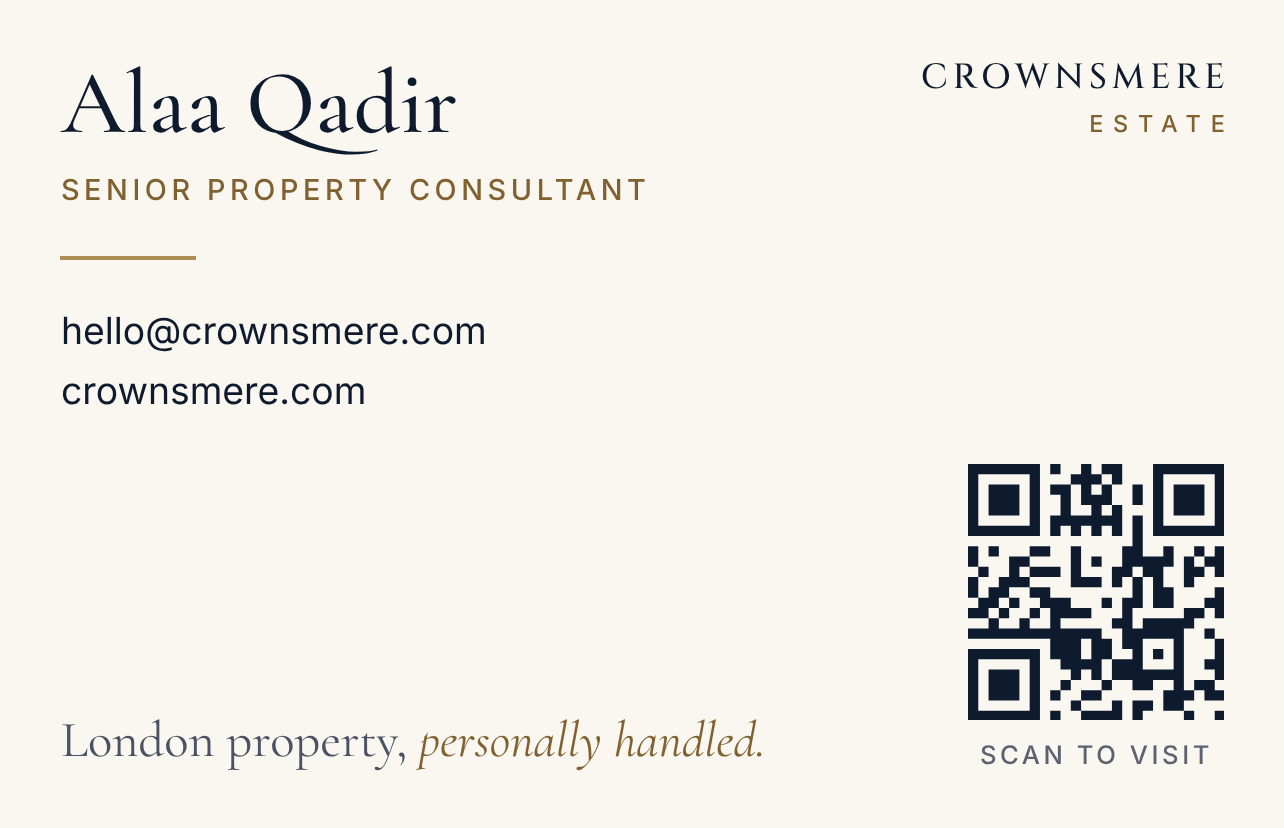
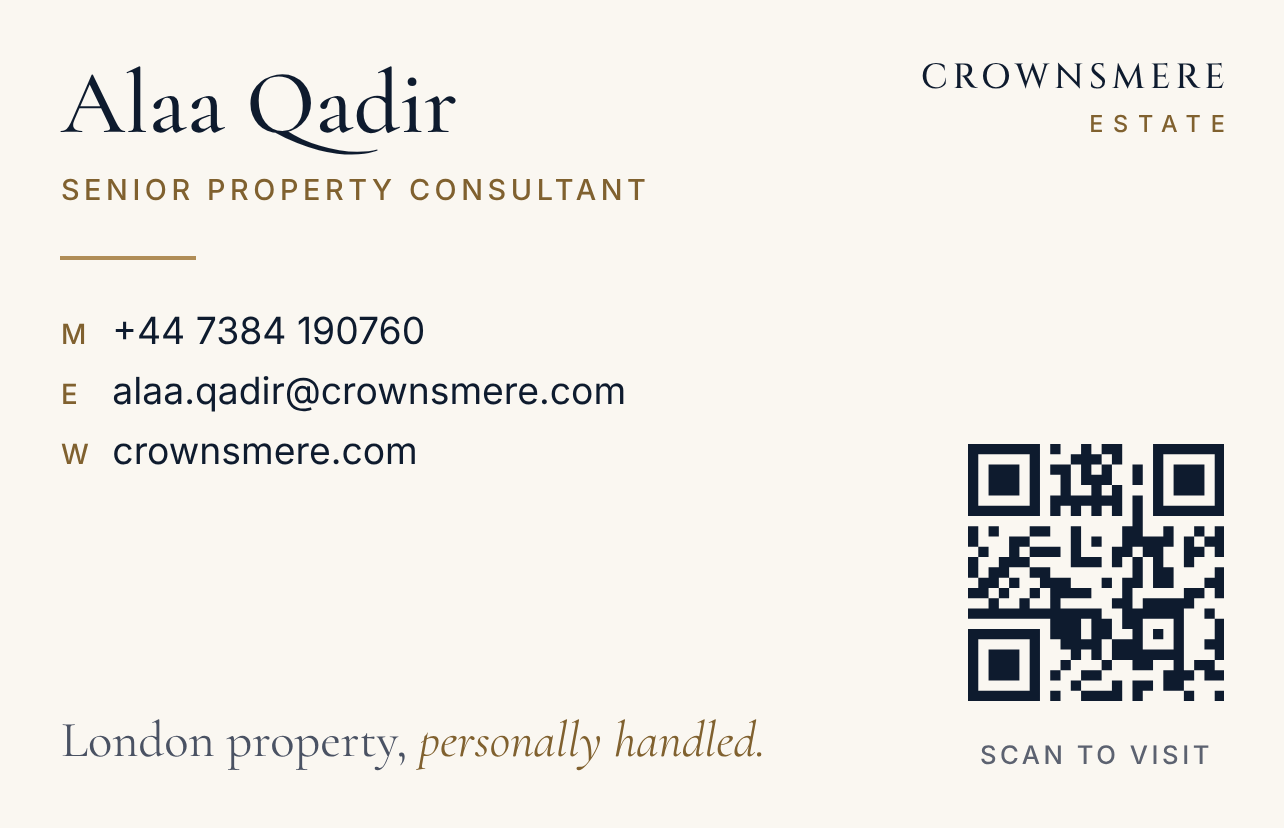
Put Alaa's direct email and mobile number on her card
- Card back: M +44 7384 190760, E alaa.qadir@crownsmere.com, W
  crownsmere.com, with small gold labels
- The contact file and email signature carry the same details (mobile
  as a tel: link); the website keeps hello@crownsmere.com
- QR code caption moved down so the code keeps the full four-module
  quiet zone; the code still opens https://crownsmere.com/ and reads
  correctly from the print PDF and simulated phone photos

Claude-Session: https://claude.ai/code/session_019s7tRNUbQnFUHC49w7chn2

Changed region(s): [[0.7477, 0.5133, 0.9657, 0.8756], [0.0312, 0.4529, 0.4984, 0.5737], [0.0312, 0.3623, 0.3738, 0.4227]]

diff --git a/brand/email-signature.html b/brand/email-signature.html
@@ -26,7 +26,8 @@ ol { padding-left: 22px; } li { margin: 4px 0; }
 <p style="margin: 0; font-family: Georgia, 'Times New Roman', serif; font-size: 19px; line-height: 24px; color: #0e1b2e;">Alaa Qadir</p>
 <p style="margin: 2px 0 0; font-family: Arial, Helvetica, sans-serif; font-size: 10px; line-height: 14px; letter-spacing: 1.5px; color: #80612f;">SENIOR PROPERTY CONSULTANT</p>
 <p style="margin: 9px 0 0; font-family: Georgia, 'Times New Roman', serif; font-size: 13px; line-height: 19px; letter-spacing: 1.5px; color: #0e1b2e;">CROWNSMERE <span style="font-family: Arial, Helvetica, sans-serif; font-size: 9px; letter-spacing: 2.5px; color: #80612f;">ESTATE</span></p>
-<p style="margin: 0; font-family: Arial, Helvetica, sans-serif; font-size: 13px; line-height: 19px; color: #0e1b2e;"><a href="mailto:hello@crownsmere.com" style="color: #0e1b2e; text-decoration: none;">hello@crownsmere.com</a>&nbsp;&nbsp;<span style="color: #b08d57;">|</span>&nbsp;&nbsp;<a href="https://crownsmere.com/" style="color: #0e1b2e; text-decoration: none;">crownsmere.com</a></p>
+<p style="margin: 0; font-family: Arial, Helvetica, sans-serif; font-size: 13px; line-height: 19px; color: #0e1b2e;"><a href="mailto:alaa.qadir@crownsmere.com" style="color: #0e1b2e; text-decoration: none;">alaa.qadir@crownsmere.com</a>&nbsp;&nbsp;<span style="color: #b08d57;">|</span>&nbsp;&nbsp;<a href="tel:+447384190760" style="color: #0e1b2e; text-decoration: none;">+44 7384 190760</a></p>
+<p style="margin: 0; font-family: Arial, Helvetica, sans-serif; font-size: 13px; line-height: 19px; color: #0e1b2e;"><a href="https://crownsmere.com/" style="color: #0e1b2e; text-decoration: none;">crownsmere.com</a></p>
 <p style="margin: 3px 0 0; font-family: Georgia, 'Times New Roman', serif; font-size: 14px; line-height: 19px; font-style: italic; color: #80612f;">London property, personally handled.</p>
 </td>
 </tr>
@@ -63,7 +64,9 @@ Settings, Apps, Mail, Signature.</p>
 <div class="box"><pre id="txt">Alaa Qadir
 Senior Property Consultant
 Crownsmere Estate
-hello@crownsmere.com | crownsmere.com
+alaa.qadir@crownsmere.com
++44 7384 190760
+crownsmere.com
 London property, personally handled.
 </pre></div>
 <button type="button" data-copy="txt">Copy plain text</button><span class="done" id="txt-done" hidden>Copied</span>

diff --git a/brand/share-card.html b/brand/share-card.html
@@ -27,6 +27,7 @@ body { -webkit-print-color-adjust: exact; print-color-adjust: exact; }
 .role { margin: 1.7mm 0 0; font: 500 5.4pt/1 "Inter", sans-serif; letter-spacing: 0.16em; color: #80612f; }
 .rule { width: 9mm; height: 0.25mm; margin: 3.4mm 0 3mm; background: #b08d57; }
 .lines { margin: 0; font: 400 7pt/1.6 "Inter", sans-serif; color: #0e1b2e; }
+.lines b { display: inline-block; width: 3.4mm; font: 500 5.2pt/1 "Inter", sans-serif; color: #80612f; }
 .tag { margin: 0; font: 400 9.5pt/1.15 "Cormorant Garamond", serif; color: #4a5263; }
 .tag em { color: #80612f; }
 .side { display: flex; flex-direction: column; align-items: flex-end; justify-content: space-between; }
@@ -35,7 +36,8 @@ body { -webkit-print-color-adjust: exact; print-color-adjust: exact; }
 .brand small { display: block; margin: 1.1mm -0.92pt 0 0; font: 500 4.4pt/1 "Inter", sans-serif; letter-spacing: 0.42em; color: #80612f; }
 .qr { display: flex; flex-direction: column; align-items: center; }
 .qr svg { display: block; width: 17mm; height: 17mm; }
-.qr p { margin: 1.6mm 0 0; font: 500 4.8pt/1 "Inter", sans-serif; letter-spacing: 0.14em; color: #5c6270; }
+/* 17 mm across 25 modules: the 2.8 mm gap keeps the four-module quiet zone the QR standard asks for. */
+.qr p { margin: 2.8mm 0 0; font: 500 4.8pt/1 "Inter", sans-serif; letter-spacing: 0.14em; color: #5c6270; }
 
 body { width: 1600px; height: 640px; display: flex; align-items: center; justify-content: center; gap: 40px;
        background: radial-gradient(120% 140% at 50% 0%, #f2ebdf 0%, #e4d9c5 100%); }
@@ -55,7 +57,7 @@ body { width: 1600px; height: 640px; display: flex; align-items: center; justify
       <p class="name">Alaa Qadir</p>
       <p class="role">SENIOR PROPERTY CONSULTANT</p>
       <div class="rule"></div>
-      <p class="lines">hello@crownsmere.com<br>crownsmere.com</p>
+      <p class="lines"><b>M</b>+44 7384 190760<br><b>E</b>alaa.qadir@crownsmere.com<br><b>W</b>crownsmere.com</p>
     </div>
     <p class="tag">London property, <em>personally handled.</em></p>
   </div>

diff --git a/brand/card.html b/brand/card.html
@@ -27,6 +27,7 @@ body { -webkit-print-color-adjust: exact; print-color-adjust: exact; }
 .role { margin: 1.7mm 0 0; font: 500 5.4pt/1 "Inter", sans-serif; letter-spacing: 0.16em; color: #80612f; }
 .rule { width: 9mm; height: 0.25mm; margin: 3.4mm 0 3mm; background: #b08d57; }
 .lines { margin: 0; font: 400 7pt/1.6 "Inter", sans-serif; color: #0e1b2e; }
+.lines b { display: inline-block; width: 3.4mm; font: 500 5.2pt/1 "Inter", sans-serif; color: #80612f; }
 .tag { margin: 0; font: 400 9.5pt/1.15 "Cormorant Garamond", serif; color: #4a5263; }
 .tag em { color: #80612f; }
 .side { display: flex; flex-direction: column; align-items: flex-end; justify-content: space-between; }
@@ -35,7 +36,8 @@ body { -webkit-print-color-adjust: exact; print-color-adjust: exact; }
 .brand small { display: block; margin: 1.1mm -0.92pt 0 0; font: 500 4.4pt/1 "Inter", sans-serif; letter-spacing: 0.42em; color: #80612f; }
 .qr { display: flex; flex-direction: column; align-items: center; }
 .qr svg { display: block; width: 17mm; height: 17mm; }
-.qr p { margin: 1.6mm 0 0; font: 500 4.8pt/1 "Inter", sans-serif; letter-spacing: 0.14em; color: #5c6270; }
+/* 17 mm across 25 modules: the 2.8 mm gap keeps the four-module quiet zone the QR standard asks for. */
+.qr p { margin: 2.8mm 0 0; font: 500 4.8pt/1 "Inter", sans-serif; letter-spacing: 0.14em; color: #5c6270; }
 
 @page { size: 91mm 61mm; margin: 0; }
 .card { break-after: page; }
@@ -54,7 +56,7 @@ body { -webkit-print-color-adjust: exact; print-color-adjust: exact; }
       <p class="name">Alaa Qadir</p>
       <p class="role">SENIOR PROPERTY CONSULTANT</p>
       <div class="rule"></div>
-      <p class="lines">hello@crownsmere.com<br>crownsmere.com</p>
+      <p class="lines"><b>M</b>+44 7384 190760<br><b>E</b>alaa.qadir@crownsmere.com<br><b>W</b>crownsmere.com</p>
     </div>
     <p class="tag">London property, <em>personally handled.</em></p>
   </div>

diff --git a/brand/email-signature-snippet.html b/brand/email-signature-snippet.html
@@ -5,7 +5,8 @@
 <p style="margin: 0; font-family: Georgia, 'Times New Roman', serif; font-size: 19px; line-height: 24px; color: #0e1b2e;">Alaa Qadir</p>
 <p style="margin: 2px 0 0; font-family: Arial, Helvetica, sans-serif; font-size: 10px; line-height: 14px; letter-spacing: 1.5px; color: #80612f;">SENIOR PROPERTY CONSULTANT</p>
 <p style="margin: 9px 0 0; font-family: Georgia, 'Times New Roman', serif; font-size: 13px; line-height: 19px; letter-spacing: 1.5px; color: #0e1b2e;">CROWNSMERE <span style="font-family: Arial, Helvetica, sans-serif; font-size: 9px; letter-spacing: 2.5px; color: #80612f;">ESTATE</span></p>
-<p style="margin: 0; font-family: Arial, Helvetica, sans-serif; font-size: 13px; line-height: 19px; color: #0e1b2e;"><a href="mailto:hello@crownsmere.com" style="color: #0e1b2e; text-decoration: none;">hello@crownsmere.com</a>&nbsp;&nbsp;<span style="color: #b08d57;">|</span>&nbsp;&nbsp;<a href="https://crownsmere.com/" style="color: #0e1b2e; text-decoration: none;">crownsmere.com</a></p>
+<p style="margin: 0; font-family: Arial, Helvetica, sans-serif; font-size: 13px; line-height: 19px; color: #0e1b2e;"><a href="mailto:alaa.qadir@crownsmere.com" style="color: #0e1b2e; text-decoration: none;">alaa.qadir@crownsmere.com</a>&nbsp;&nbsp;<span style="color: #b08d57;">|</span>&nbsp;&nbsp;<a href="tel:+447384190760" style="color: #0e1b2e; text-decoration: none;">+44 7384 190760</a></p>
+<p style="margin: 0; font-family: Arial, Helvetica, sans-serif; font-size: 13px; line-height: 19px; color: #0e1b2e;"><a href="https://crownsmere.com/" style="color: #0e1b2e; text-decoration: none;">crownsmere.com</a></p>
 <p style="margin: 3px 0 0; font-family: Georgia, 'Times New Roman', serif; font-size: 14px; line-height: 19px; font-style: italic; color: #80612f;">London property, personally handled.</p>
 </td>
 </tr>

diff --git a/tools/brand.py b/tools/brand.py
@@ -9,8 +9,8 @@ PNG images.
     python3 tools/brand.py
     PLAYWRIGHT_BROWSERS_PATH=/opt/pw-browsers node tools/brand-render.cjs   # any Playwright Chromium
 
-Only facts the website already states go on the cards. Add a phone or WhatsApp number to PERSON
-when there is one; the cards, signature and contact file pick it up.
+Alaa's own email and mobile number (PERSON) go on the card, the signature and the contact file; the
+rest is only what the website already states. Change a detail in PERSON and run both steps again.
 """
 import base64, html, io, os
 
@@ -23,8 +23,9 @@ OUT = os.path.join(ROOT, "brand")
 SITE = "https://crownsmere.com/"
 SITE_SHORT = "crownsmere.com"
 BRAND = "Crownsmere Estate"
-EMAIL = "hello@crownsmere.com"
-PERSON = {"first": "Alaa", "last": "Qadir", "title": "Senior Property Consultant", "phone": None}
+# Alaa's direct details, from the owner (October 2026). The website itself keeps hello@crownsmere.com.
+PERSON = {"first": "Alaa", "last": "Qadir", "title": "Senior Property Consultant",
+          "email": "alaa.qadir@crownsmere.com", "phone": "+44 7384 190760"}
 TAGLINE = ("London property,", "personally handled.")      # the home page's heading
 LINE = "Private property search · Prime London"            # the sharing image's strap line
 # The signature's logo is fetched from the live site when an email is opened, so this file must stay online.
@@ -94,6 +95,7 @@ body {{ -webkit-print-color-adjust: exact; print-color-adjust: exact; }}
 .role {{ margin: 1.7mm 0 0; font: 500 5.4pt/1 "Inter", sans-serif; letter-spacing: 0.16em; color: {GOLD_INK}; }}
 .rule {{ width: 9mm; height: 0.25mm; margin: 3.4mm 0 3mm; background: {GOLD}; }}
 .lines {{ margin: 0; font: 400 7pt/1.6 "Inter", sans-serif; color: {NAVY}; }}
+.lines b {{ display: inline-block; width: 3.4mm; font: 500 5.2pt/1 "Inter", sans-serif; color: {GOLD_INK}; }}
 .tag {{ margin: 0; font: 400 9.5pt/1.15 "Cormorant Garamond", serif; color: {INK2}; }}
 .tag em {{ color: {GOLD_INK}; }}
 .side {{ display: flex; flex-direction: column; align-items: flex-end; justify-content: space-between; }}
@@ -102,7 +104,8 @@ body {{ -webkit-print-color-adjust: exact; print-color-adjust: exact; }}
 .brand small {{ display: block; margin: 1.1mm -0.92pt 0 0; font: 500 4.4pt/1 "Inter", sans-serif; letter-spacing: 0.42em; color: {GOLD_INK}; }}
 .qr {{ display: flex; flex-direction: column; align-items: center; }}
 .qr svg {{ display: block; width: 17mm; height: 17mm; }}
-.qr p {{ margin: 1.6mm 0 0; font: 500 4.8pt/1 "Inter", sans-serif; letter-spacing: 0.14em; color: {INK3}; }}
+/* 17 mm across 25 modules: the 2.8 mm gap keeps the four-module quiet zone the QR standard asks for. */
+.qr p {{ margin: 2.8mm 0 0; font: 500 4.8pt/1 "Inter", sans-serif; letter-spacing: 0.14em; color: {INK3}; }}
 """
 
 
@@ -115,7 +118,9 @@ def front():
 
 
 def back():
-    lines = [e(EMAIL), SITE_SHORT] + ([e(PERSON["phone"])] if PERSON["phone"] else [])
+    # M(obile), E(mail), W(ebsite): the usual small labels on a UK card.
+    rows = ([("M", PERSON["phone"])] if PERSON["phone"] else []) + [("E", PERSON["email"]), ("W", SITE_SHORT)]
+    lines = [f"<b>{k}</b>{e(v)}" for k, v in rows]
     return f'''<div class="card back"><div class="safe">
   <div class="who">
     <div>
@@ -177,7 +182,8 @@ def signature_html():
     serif = "Georgia, 'Times New Roman', serif"
     p = f"margin: 0; font-family: {sans}; font-size: 13px; line-height: 19px; color: {NAVY};"
     a = f"color: {NAVY}; text-decoration: none;"
-    phone = (f'<br><a href="tel:{e(PERSON["phone"].replace(" ", ""))}" style="{a}">{e(PERSON["phone"])}</a>'
+    bar = f'&nbsp;&nbsp;<span style="color: {GOLD};">|</span>&nbsp;&nbsp;'
+    phone = (f'{bar}<a href="tel:{e(PERSON["phone"].replace(" ", ""))}" style="{a}">{e(PERSON["phone"])}</a>'
              if PERSON["phone"] else "")
     return f'''<table role="presentation" cellpadding="0" cellspacing="0" border="0" style="border-collapse: collapse;">
 <tr>
@@ -186,7 +192,8 @@ def signature_html():
 <p style="margin: 0; font-family: {serif}; font-size: 19px; line-height: 24px; color: {NAVY};">{e(name)}</p>
 <p style="margin: 2px 0 0; font-family: {sans}; font-size: 10px; line-height: 14px; letter-spacing: 1.5px; color: {GOLD_INK};">{e(PERSON["title"]).upper()}</p>
 <p style="margin: 9px 0 0; font-family: {serif}; font-size: 13px; line-height: 19px; letter-spacing: 1.5px; color: {NAVY};">CROWNSMERE <span style="font-family: {sans}; font-size: 9px; letter-spacing: 2.5px; color: {GOLD_INK};">ESTATE</span></p>
-<p style="{p}"><a href="mailto:{EMAIL}" style="{a}">{EMAIL}</a>&nbsp;&nbsp;<span style="color: {GOLD};">|</span>&nbsp;&nbsp;<a href="{SITE}" style="{a}">{SITE_SHORT}</a>{phone}</p>
+<p style="{p}"><a href="mailto:{PERSON["email"]}" style="{a}">{PERSON["email"]}</a>{phone}</p>
+<p style="{p}"><a href="{SITE}" style="{a}">{SITE_SHORT}</a></p>
 <p style="margin: 3px 0 0; font-family: {serif}; font-size: 14px; line-height: 19px; font-style: italic; color: {GOLD_INK};">{e(" ".join(TAGLINE))}</p>
 </td>
 </tr>
@@ -194,10 +201,10 @@ def signature_html():
 
 
 def signature_text():
-    rows = [name, PERSON["title"], BRAND, f"{EMAIL} | {SITE_SHORT}"]
+    rows = [name, PERSON["title"], BRAND, PERSON["email"]]
     if PERSON["phone"]:
         rows.append(PERSON["phone"])
-    rows.append(" ".join(TAGLINE))
+    rows += [SITE_SHORT, " ".join(TAGLINE)]
     return "\n".join(rows) + "\n"
 
 
@@ -300,9 +307,9 @@ def vcard():
     rows = ["BEGIN:VCARD", "VERSION:3.0",
             f'N:{esc(PERSON["last"])};{esc(PERSON["first"])};;;', f"FN:{esc(name)}",
             f"ORG:{esc(BRAND)}", f'TITLE:{esc(PERSON["title"])}',
-            f"EMAIL;TYPE=INTERNET,WORK:{EMAIL}", f"URL:{SITE}"]
+            f'EMAIL;TYPE=INTERNET,WORK:{PERSON["email"]}', f"URL:{SITE}"]
     if PERSON["phone"]:
-        rows.append(f'TEL;TYPE=WORK,VOICE:{PERSON["phone"].replace(" ", "")}')
+        rows.append(f'TEL;TYPE=CELL,VOICE:{PERSON["phone"].replace(" ", "")}')
     rows += [f"NOTE:{esc(LINE)}", f"PHOTO;ENCODING=b;TYPE=JPEG:{b64}", "END:VCARD"]
 
     def fold(line):

diff --git a/README.md b/README.md
@@ -22,14 +22,14 @@ Website of **Crownsmere Estate**, a private, by-request property service in prim
 - `brand/`: business card, digital card, contact file and email signature (see below; excluded from the website by `_config.yml`)
 
 ## Business card, digital card and email signature
-Made by `tools/brand.py` from the site's own logo, fonts and colours, with only facts the site already states. All in `brand/`:
+Made by `tools/brand.py` from the site's own logo, fonts and colours. They carry Alaa's direct email and mobile number (`PERSON` in that file) and otherwise only facts the site already states. All in `brand/`:
 - `crownsmere-business-card-print.pdf`: the file for the printer. Two pages (front, back), UK size 85 × 55 mm with 3 mm bleed (91 × 61 mm), nothing important within 4 mm of the edge, fonts embedded, logo at over 600 dpi, QR code as vector. It is RGB: online printers convert it themselves.
 - `crownsmere-card-front.png`, `crownsmere-card-back.png`: each side, trimmed, at about 380 dpi.
 - `crownsmere-digital-card.png`: both sides together, to send by email, WhatsApp or LinkedIn.
 - `alaa-qadir.vcf`: contact file (vCard 3.0) that phones and email programs save in one tap, with the monogram as the contact photo.
 - `email-signature.html`: open it in a browser, press **Copy signature** and paste into Gmail, Outlook or Apple Mail (instructions on the page). Also `email-signature-snippet.html` (the signature alone) and `email-signature.txt` (plain text, for the iPhone). The signature's logo loads from `https://crownsmere.com/assets/img/monogram-sm.png`, so that file must stay on the site; the live site check fails if it goes missing.
 
-The QR code opens https://crownsmere.com/. To change a detail (for example to add a phone or WhatsApp number, in `PERSON`), edit `tools/brand.py`, then:
+The QR code opens https://crownsmere.com/ (25 × 25 modules at 17 mm, with its full quiet zone; tested with two QR readers on the print file and on simulated phone photos). To change a detail, edit `PERSON` in `tools/brand.py`, then:
 `pip install segno fonttools brotli`, `python3 tools/brand.py`, and `PLAYWRIGHT_BROWSERS_PATH=/opt/pw-browsers node tools/brand-render.cjs` (any Playwright Chromium works).
 
 ## Design (October 2026 redesign)
